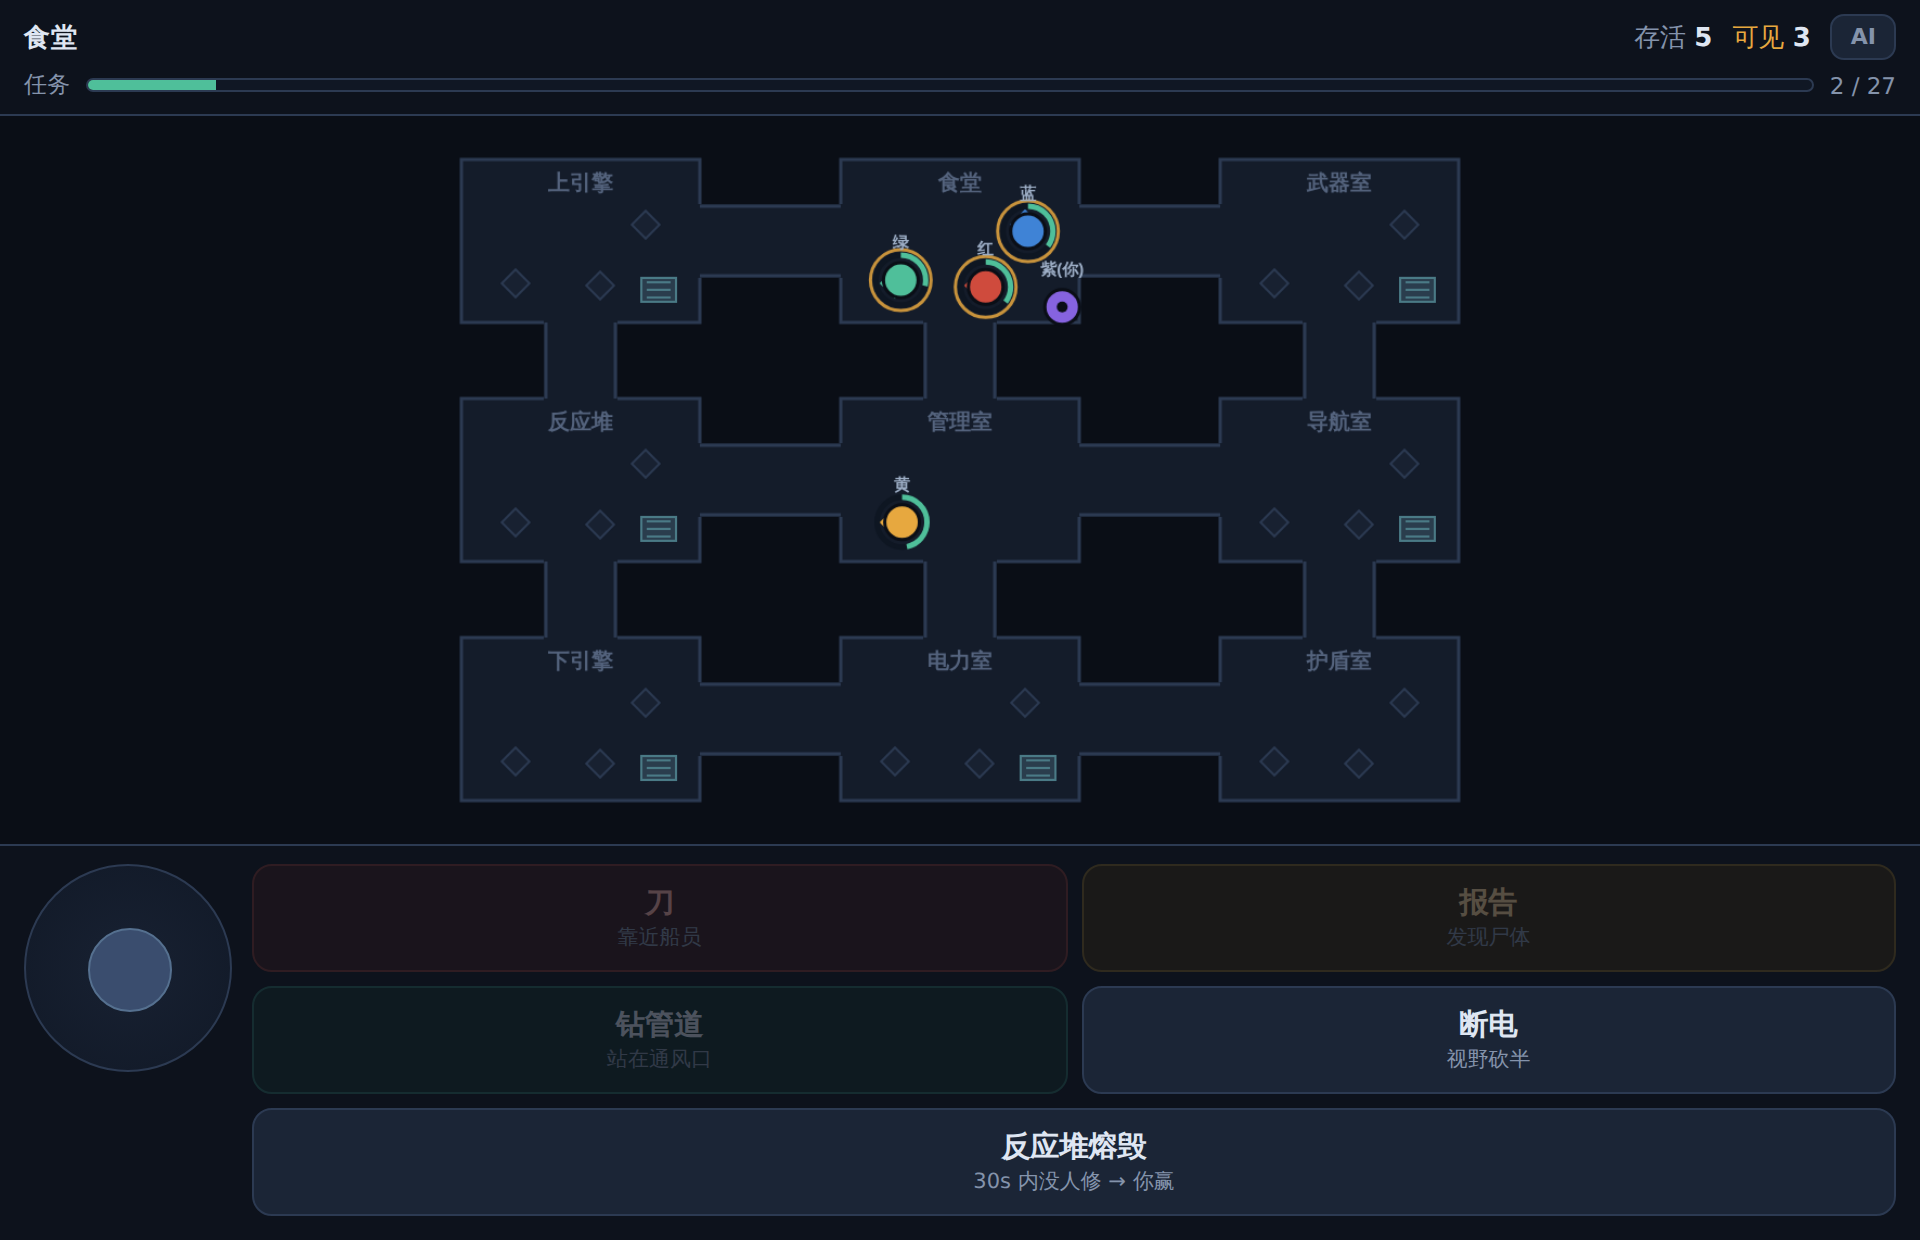
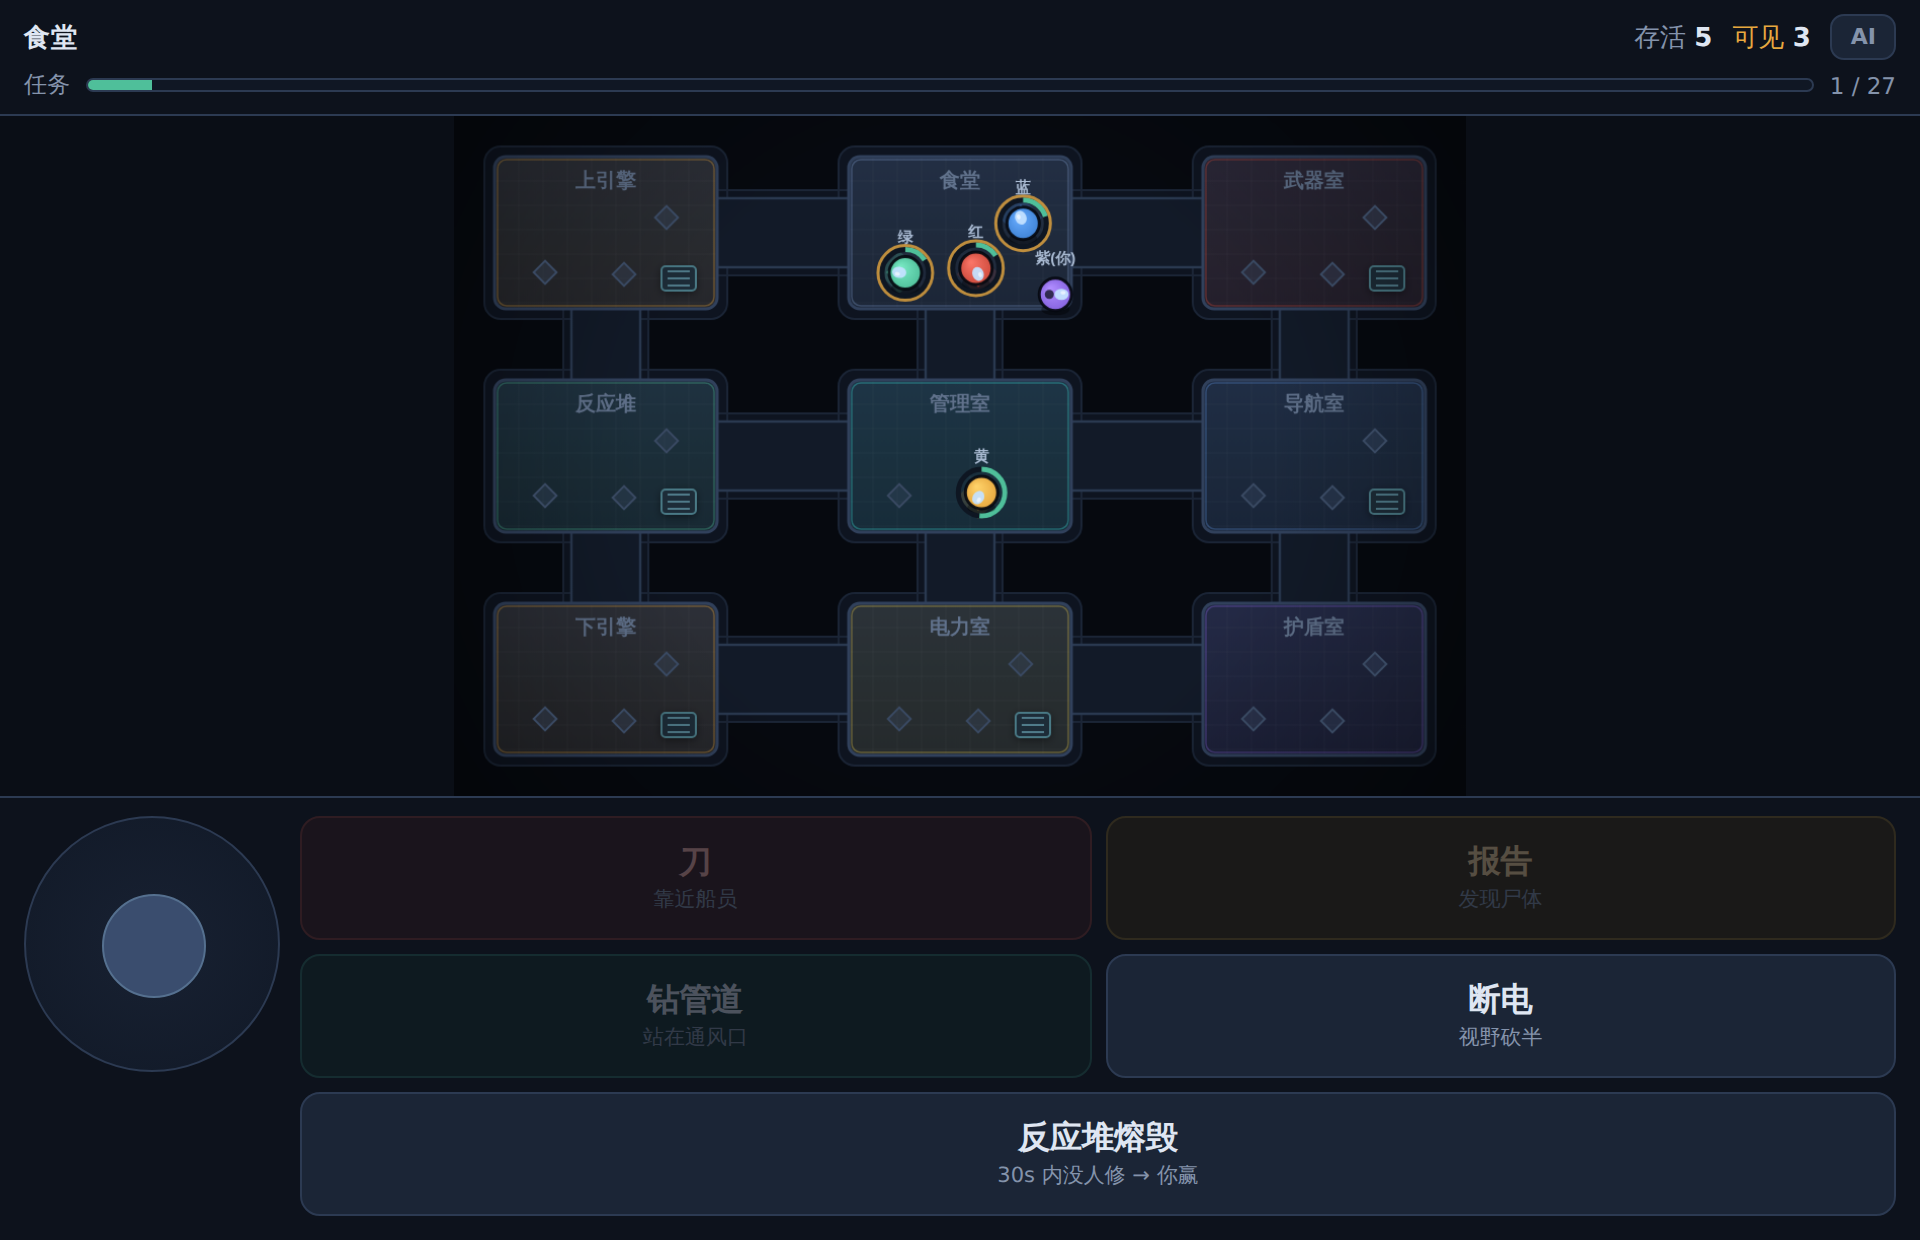
feat(impostor-log): 重做渲染——舱室配色、角色朝向、手电筒式断电
原来地图是一堆纯色矩形、角色是纯色圆点，九个房间长得一模一样。

静态层烘焙：地板、墙、房名、通风口、暗角一帧都不会变，画进离屏 canvas 一次，
draw() 每帧只 drawImage 再叠动态层。既能塞进更多细节，也比每帧重画几十个
矩形便宜——实测 1000×670 稳定 60fps。

- 九个舱室各给一个很淡的主色（引擎琥珀 / 武器室红 / 反应堆绿 / 导航蓝……），
  扫一眼就知道在哪，不用读房名
- 船体外壳、地板格栅、双层墙线（外深内亮）、暗角
- 角色：投影 + 球面高光 + 朝移动方向的护目镜 + 走路上下浮动。
  朝向从帧间位移推出来，不需要改动任何游戏逻辑
- 断电从一层平铺的灰蒙蒙改成以玩家为中心的手电筒（离屏 canvas +
  destination-out 打洞）。外圈最暗 0.66，远处的人仍看得见轮廓，
  调这一个数就能改难度
- 任务点会呼吸，归属船员还活着时用那个人的颜色
- 尸体加投影，反应堆熔毁时舱室描边发光

顺带修一个老 bug：断电横幅（.siren）和事件提示（.alertline）都钉在 stage
顶部，同时出现会叠成一团。siren 显示时把提示行下移。

docs/impostor-gameplay.png 换成新渲染的截图。
会议 e2e 和 5 种手机平板视口测试全部回归通过。

Claude-Session: https://claude.ai/code/session_01LkAEfytYVBs1xS4HUEddSR

diff --git a/impostor-log/index.html b/impostor-log/index.html
@@ -45,6 +45,8 @@
   .siren{position:absolute;top:0;left:0;right:0;padding:5px;text-align:center;font-size:13px;font-weight:700;
     background:rgba(207,75,61,.22);color:#ffb3aa;display:none;font-variant-numeric:tabular-nums}
   .siren.show{display:block}
+  /* 断电横幅和事件提示都钉在 stage 顶部，同时出现会叠成一团 */
+  .siren.show ~ .alertline{top:32px}
   .ctrl{display:flex;align-items:flex-start;gap:10px;padding:9px 12px 12px;border-top:1px solid var(--line)}
   .stick{width:104px;height:104px;border-radius:50%;border:1px solid var(--line);
     background:radial-gradient(circle at 50% 50%,#182132,#111927);position:relative;flex:none;touch-action:none}
@@ -513,43 +515,162 @@ function ui(){
 /* ---------- 绘制 ---------- */
 function ring(x,y,p,col){ctx.strokeStyle='#0e1622';ctx.lineWidth=5;ctx.beginPath();ctx.arc(x,y,23,0,7);ctx.stroke();
   ctx.strokeStyle=col;ctx.beginPath();ctx.arc(x,y,23,-Math.PI/2,-Math.PI/2+p*Math.PI*2);ctx.stroke();}
-function draw(){
-  ctx.fillStyle='#0a0e16';ctx.fillRect(0,0,W,H);
-  ctx.lineWidth=3;
-  for(const r of rooms){ctx.fillStyle='#141c2a';ctx.fillRect(r.x,r.y,r.w,r.h);
-    ctx.strokeStyle='#2c3a52';ctx.strokeRect(r.x,r.y,r.w,r.h);}
-  ctx.fillStyle='#141c2a';[...corrH,...corrV].forEach(c=>ctx.fillRect(c.x-2,c.y-2,c.w+4,c.h+4));
-  ctx.strokeStyle='#2c3a52';ctx.beginPath();
-  corrH.forEach(c=>{ctx.moveTo(c.x,c.y);ctx.lineTo(c.x+c.w,c.y);ctx.moveTo(c.x,c.y+c.h);ctx.lineTo(c.x+c.w,c.y+c.h);});
-  corrV.forEach(c=>{ctx.moveTo(c.x,c.y);ctx.lineTo(c.x,c.y+c.h);ctx.moveTo(c.x+c.w,c.y);ctx.lineTo(c.x+c.w,c.y+c.h);});
-  ctx.stroke();
-  ctx.fillStyle='#54637d';ctx.font='600 20px sans-serif';ctx.textAlign='center';
-  rooms.forEach(r=>ctx.fillText(r.name,r.cx,r.y+28));
-  // 任务点：菱形，颜色=负责的船员
-  SPOT.forEach(s=>{ if(s.done)return; const live=s.owner>0&&P[s.owner].alive;
-    ctx.save();ctx.translate(s.x,s.y);ctx.rotate(Math.PI/4);
-    ctx.fillStyle=live?P[s.owner].col:'#243043';ctx.globalAlpha=live?.55:.3;
-    ctx.fillRect(-9,-9,18,18);ctx.globalAlpha=1;
-    ctx.strokeStyle=live?P[s.owner].col:'#2c3a52';ctx.lineWidth=2;ctx.strokeRect(-9,-9,18,18);ctx.restore();});
+/* ---------- 渲染 ----------
+   静态地图（地板、墙、房名、通风口）一帧都不会变，烘焙进离屏 canvas 画一次，
+   之后每帧只贴图 + 画动态层。既能塞进更多细节，也比每帧重画一堆矩形便宜。 */
+const ACCENT=['#e7a83f','#7f9ccb','#cf4b3d','#4fbf9a','#3ddbd9','#5b8dd6','#e7a83f','#e0c34f','#8663e0'];
+
+function rr(g,x,y,w,h,r){g.beginPath();
+  g.moveTo(x+r,y);g.arcTo(x+w,y,x+w,y+h,r);g.arcTo(x+w,y+h,x,y+h,r);
+  g.arcTo(x,y+h,x,y,r);g.arcTo(x,y,x+w,y,r);g.closePath();}
+
+/* 把 #rrggbb 提亮 amt（0-255），用于角色高光 */
+function lighten(hex,amt){const n=parseInt(hex.slice(1),16);
+  const c=[n>>16,(n>>8)&255,n&255].map(v=>Math.min(255,v+amt));
+  return 'rgb('+c.join(',')+')';}
+
+let mapCv=null;
+const lightCv=document.createElement('canvas');lightCv.width=W;lightCv.height=H;
+const lctx=lightCv.getContext('2d');
+
+function bakeMap(){
+  mapCv=document.createElement('canvas');mapCv.width=W;mapCv.height=H;
+  const g=mapCv.getContext('2d');
+  g.fillStyle='#06090f';g.fillRect(0,0,W,H);
+
+  // 船体外壳：所有可行走区域外扩一圈，连成一片有厚度的舱体
+  g.fillStyle='#0e1420';
+  solid.forEach(s=>{rr(g,s.x-10,s.y-10,s.w+20,s.h+20,16);g.fill();});
+  g.strokeStyle='#1b2536';g.lineWidth=2;
+  solid.forEach(s=>{rr(g,s.x-10,s.y-10,s.w+20,s.h+20,16);g.stroke();});
+
+  // 走廊地板（比房间暗一档，走过去有明暗变化）
+  [...corrH,...corrV].forEach(c=>{
+    g.fillStyle='#121a28';rr(g,c.x-2,c.y-2,c.w+4,c.h+4,5);g.fill();});
+  // 走廊只描两条平行边，免得在门口画出横线
+  g.strokeStyle='#2a3950';g.lineWidth=2.5;g.beginPath();
+  corrH.forEach(c=>{g.moveTo(c.x,c.y-2);g.lineTo(c.x+c.w,c.y-2);
+                    g.moveTo(c.x,c.y+c.h+2);g.lineTo(c.x+c.w,c.y+c.h+2);});
+  corrV.forEach(c=>{g.moveTo(c.x-2,c.y);g.lineTo(c.x-2,c.y+c.h);
+                    g.moveTo(c.x+c.w+2,c.y);g.lineTo(c.x+c.w+2,c.y+c.h);});
+  g.stroke();
+
+  rooms.forEach(r=>{
+    // 地板渐变
+    const grad=g.createLinearGradient(r.x,r.y,r.x,r.y+r.h);
+    grad.addColorStop(0,'#1b2537');grad.addColorStop(1,'#131b29');
+    g.fillStyle=grad;rr(g,r.x,r.y,r.w,r.h,11);g.fill();
+    // 房间色调：每间一个很淡的主色，扫一眼就知道自己在哪
+    g.save();g.globalAlpha=.09;g.fillStyle=ACCENT[r.i];
+    rr(g,r.x,r.y,r.w,r.h,11);g.fill();g.restore();
+    // 地板格栅
+    g.save();rr(g,r.x,r.y,r.w,r.h,11);g.clip();
+    g.strokeStyle='rgba(255,255,255,.03)';g.lineWidth=1;g.beginPath();
+    for(let x=r.x+24;x<r.x+r.w;x+=24){g.moveTo(x,r.y);g.lineTo(x,r.y+r.h);}
+    for(let y=r.y+24;y<r.y+r.h;y+=24){g.moveTo(r.x,y);g.lineTo(r.x+r.w,y);}
+    g.stroke();g.restore();
+    // 墙：外圈深、内圈用房间色描一道细边
+    g.strokeStyle='#31415c';g.lineWidth=3;rr(g,r.x,r.y,r.w,r.h,11);g.stroke();
+    g.save();g.globalAlpha=.34;g.strokeStyle=ACCENT[r.i];g.lineWidth=1.5;
+    rr(g,r.x+3,r.y+3,r.w-6,r.h-6,9);g.stroke();g.restore();
+    // 房名
+    g.fillStyle='#61728c';g.font='600 20px sans-serif';g.textAlign='center';
+    g.fillText(r.name,r.cx,r.y+30);
+  });
+
   // 通风口
-  VENTS.flat().forEach(i=>{const v=ventPos(i);ctx.fillStyle='#2a3d4d';ctx.strokeStyle='#4a7a86';ctx.lineWidth=2;
-    ctx.fillRect(v.x-16,v.y-11,32,22);ctx.strokeRect(v.x-16,v.y-11,32,22);
-    ctx.beginPath();for(let k=-1;k<2;k++){ctx.moveTo(v.x-11,v.y+k*7);ctx.lineTo(v.x+11,v.y+k*7);}ctx.stroke();});
-  if(emg===1){ctx.fillStyle='rgba(4,6,12,.55)';ctx.fillRect(0,0,W,H);}
-  if(emg===2){ctx.fillStyle='rgba(120,20,20,'+(.10+.06*Math.sin(t*6))+')';ctx.fillRect(0,0,W,H);
-    const r=rooms[3];ctx.strokeStyle='#cf4b3d';ctx.lineWidth=4;ctx.strokeRect(r.x,r.y,r.w,r.h);}
-  bodies.forEach(b=>{ctx.fillStyle=COL[b.id];ctx.beginPath();ctx.arc(b.x,b.y,17,Math.PI,0);ctx.fill();
+  VENTS.flat().forEach(i=>{const v=ventPos(i);
+    g.save();g.shadowColor='rgba(0,0,0,.5)';g.shadowBlur=8;g.shadowOffsetY=2;
+    g.fillStyle='#1d2c38';rr(g,v.x-17,v.y-12,34,24,4);g.fill();g.restore();
+    g.strokeStyle='#4a7a86';g.lineWidth=2;rr(g,v.x-17,v.y-12,34,24,4);g.stroke();
+    g.strokeStyle='rgba(122,190,205,.55)';g.lineWidth=2;g.beginPath();
+    for(let k=-1;k<2;k++){g.moveTo(v.x-11,v.y+k*7);g.lineTo(v.x+11,v.y+k*7);}g.stroke();});
+
+  // 暗角，把视线收拢到舱体中间
+  const vg=g.createRadialGradient(W/2,H/2,H*0.46,W/2,H/2,H*0.95);
+  vg.addColorStop(0,'rgba(0,0,0,0)');vg.addColorStop(1,'rgba(0,0,0,.38)');
+  g.fillStyle=vg;g.fillRect(0,0,W,H);
+}
+
+/* 角色：投影 + 球面高光 + 朝向护目镜 + 走路轻微上下浮动 */
+function drawActor(p,witnessed){
+  const dx=p.x-(p._lx===undefined?p.x:p._lx), dy=p.y-(p._ly===undefined?p.y:p._ly);
+  const sp=Math.hypot(dx,dy);
+  if(sp>0.12)p.face=Math.atan2(dy,dx);
+  if(p.face===undefined)p.face=0;
+  p._lx=p.x;p._ly=p.y;
+  const y=p.y+(sp>0.12?Math.sin(t*13+p.id*1.7)*1.8:0);
+
+  ctx.save();ctx.globalAlpha=.36;ctx.fillStyle='#000';
+  ctx.beginPath();ctx.ellipse(p.x,p.y+15,14,5.5,0,0,7);ctx.fill();ctx.restore();
+
+  if(witnessed){ctx.strokeStyle='rgba(231,168,63,.8)';ctx.lineWidth=3;
+    ctx.beginPath();ctx.arc(p.x,y,27,0,7);ctx.stroke();}
+
+  const g=ctx.createRadialGradient(p.x-5,y-6,1,p.x,y,17);
+  g.addColorStop(0,lighten(p.col,42));g.addColorStop(1,p.col);
+  ctx.fillStyle=g;ctx.beginPath();ctx.arc(p.x,y,16,0,7);ctx.fill();
+  ctx.strokeStyle='rgba(5,9,16,.92)';ctx.lineWidth=3;ctx.stroke();
+
+  ctx.save();ctx.translate(p.x,y);ctx.rotate(p.face);
+  if(p.imp){ctx.fillStyle='rgba(6,10,18,.72)';
+    ctx.beginPath();ctx.arc(-6,0,4.5,0,7);ctx.fill();}
+  ctx.fillStyle='rgba(196,225,255,.94)';
+  ctx.beginPath();ctx.ellipse(6,0,7,5.6,0,0,7);ctx.fill();
+  ctx.fillStyle='rgba(255,255,255,.6)';
+  ctx.beginPath();ctx.ellipse(7.6,-1.7,2.6,1.9,0,0,7);ctx.fill();
+  ctx.restore();
+
+  ctx.fillStyle='#a9bad2';ctx.font='600 15px sans-serif';ctx.textAlign='center';
+  ctx.fillText(p.name,p.x,y-31);
+}
+
+function draw(){
+  if(!mapCv)bakeMap();
+  ctx.drawImage(mapCv,0,0);
+
+  // 任务点：本人负责的那颗会呼吸
+  SPOT.forEach(s=>{ if(s.done)return;
+    const live=s.owner>0&&P[s.owner].alive, col=live?P[s.owner].col:'#3a4a63';
+    const pulse=.5+.5*Math.sin(t*2.2+s.x*.05);
+    ctx.save();ctx.translate(s.x,s.y);ctx.rotate(Math.PI/4);
+    if(live){ctx.globalAlpha=.14+.13*pulse;ctx.fillStyle=col;ctx.fillRect(-15,-15,30,30);}
+    ctx.globalAlpha=live?.6:.32;ctx.fillStyle=col;ctx.fillRect(-8,-8,16,16);
+    ctx.globalAlpha=1;ctx.strokeStyle=col;ctx.lineWidth=2;ctx.strokeRect(-8,-8,16,16);
+    ctx.restore();});
+
+  if(emg===2){ctx.fillStyle='rgba(150,26,26,'+(.11+.07*Math.sin(t*6))+')';ctx.fillRect(0,0,W,H);
+    const r=rooms[3];ctx.save();ctx.shadowColor='#cf4b3d';ctx.shadowBlur=22;
+    ctx.strokeStyle='#cf4b3d';ctx.lineWidth=4;rr(ctx,r.x,r.y,r.w,r.h,11);ctx.stroke();ctx.restore();}
+
+  bodies.forEach(b=>{
+    ctx.save();ctx.globalAlpha=.4;ctx.fillStyle='#000';
+    ctx.beginPath();ctx.ellipse(b.x,b.y+8,20,7,0,0,7);ctx.fill();ctx.restore();
+    ctx.fillStyle=COL[b.id];ctx.beginPath();ctx.arc(b.x,b.y,17,Math.PI,0);ctx.fill();
+    ctx.strokeStyle='rgba(5,9,16,.9)';ctx.lineWidth=3;ctx.stroke();
     ctx.strokeStyle='#0a0e16';ctx.lineWidth=4;ctx.beginPath();
-    ctx.moveTo(b.x-9,b.y-9);ctx.lineTo(b.x+9,b.y+3);ctx.moveTo(b.x+9,b.y-9);ctx.lineTo(b.x-9,b.y+3);ctx.stroke();});
+    ctx.moveTo(b.x-9,b.y-9);ctx.lineTo(b.x+9,b.y+3);
+    ctx.moveTo(b.x+9,b.y-9);ctx.lineTo(b.x-9,b.y+3);ctx.stroke();});
+
   const wit=new Set(witnesses().map(a=>a.id));
   for(const p of P){ if(!p.alive)continue;
     if(p.doing) ring(p.x,p.y,1-p.tt/p.tmax,p.imp?'#8663e0':'#4fbf9a');
-    if(wit.has(p.id)){ctx.strokeStyle='rgba(231,168,63,.85)';ctx.lineWidth=3;
-      ctx.beginPath();ctx.arc(p.x,p.y,28,0,7);ctx.stroke();}
-    ctx.fillStyle=p.col;ctx.beginPath();ctx.arc(p.x,p.y,16,0,7);ctx.fill();
-    ctx.strokeStyle='#0a0e16';ctx.lineWidth=3;ctx.stroke();
-    if(p.imp){ctx.fillStyle='#0a0e16';ctx.beginPath();ctx.arc(p.x,p.y,5,0,7);ctx.fill();}
-    ctx.fillStyle='#9fb0c8';ctx.font='600 15px sans-serif';ctx.fillText(p.name,p.x,p.y-30);}
+    drawActor(p,wit.has(p.id));}
+
+  // 断电：改成以你为中心的手电筒，比一层平铺的灰蒙蒙有压迫感得多。
+  // 外圈最暗 .66，远处的人还看得见轮廓——调这个数就能改难度。
+  if(emg===1){
+    lctx.clearRect(0,0,W,H);
+    lctx.fillStyle='rgba(3,5,10,.66)';lctx.fillRect(0,0,W,H);
+    lctx.globalCompositeOperation='destination-out';
+    const R=vision()*1.25;
+    const lg=lctx.createRadialGradient(ME.x,ME.y,12,ME.x,ME.y,R);
+    lg.addColorStop(0,'rgba(0,0,0,1)');lg.addColorStop(.5,'rgba(0,0,0,.78)');
+    lg.addColorStop(1,'rgba(0,0,0,0)');
+    lctx.fillStyle=lg;lctx.beginPath();lctx.arc(ME.x,ME.y,R,0,7);lctx.fill();
+    lctx.globalCompositeOperation='source-over';
+    ctx.drawImage(lightCv,0,0);
+  }
 }
 
 

diff --git a/impostor-log/README.md b/impostor-log/README.md
@@ -57,6 +57,21 @@ python -m http.server 8000
 开会时这份 JSON 原样喂给模型。会议结束后可以点「查看目击日记」展开看
 喂进去的原始输入。
 
+## 渲染
+
+静态地图（地板、墙、房名、通风口、暗角）一帧都不会变，所以**烘焙进离屏 canvas 画一次**，
+之后每帧只贴一张图 + 画动态层。既能塞进更多细节，也比每帧重画几十个矩形便宜——
+实测 1000×670 下稳定 60fps。
+
+看得见的部分：
+
+- **九个舱室各有一个很淡的主色**（引擎琥珀、武器室红、反应堆绿、导航蓝……），
+  扫一眼就知道自己在哪，不用读房名
+- **角色**有投影、球面高光、朝移动方向的护目镜，走路时轻微上下浮动
+- **断电**从一层平铺的灰蒙蒙改成以你为中心的手电筒。外圈最暗 0.66，
+  远处的人还看得见轮廓——`draw()` 里调这一个数就能改难度
+- 任务点会呼吸，负责它的船员还活着时用那个人的颜色
+
 ## 行为层：船员会盯着你
 
 船员在地图上的行动不再是"闷头做任务"。每个人从**自己的日记**里长出一份怀疑度：

diff --git a/AGENTS.md b/AGENTS.md
@@ -139,6 +139,11 @@ python tests/test_meeting.py    # 会议流程端到端测试（需要 playwrigh
 python tests/test_mobile.py     # 手机 / 平板适配（5 种视口 + 触摸 + 键盘 + PWA）
 ```
 
+**静态地图是烘焙的。** `bakeMap()` 把地板、墙、房名、通风口、暗角画进离屏
+canvas，`draw()` 每帧只 `drawImage` 再叠动态层。往地图上加静态装饰要加进
+`bakeMap()`，加进 `draw()` 会白白付 60 次/秒的代价；反过来，任何会变的东西
+（任务点归属、角色、尸体、光照）必须留在 `draw()` 里，放进 `bakeMap()` 就永远不更新了。
+
 **摇杆的几何不要写死。** 早期版本把中心 52、半径 42、旋钮偏移 31 直接写在
 `mv()` 里——那三个数只对 104px 的摇杆成立，横屏想把摇杆缩小就会失灵。
 现在全部由 `stickGeo()` 从实际尺寸算出来，CSS 里随便改大小都不用动 JS。
